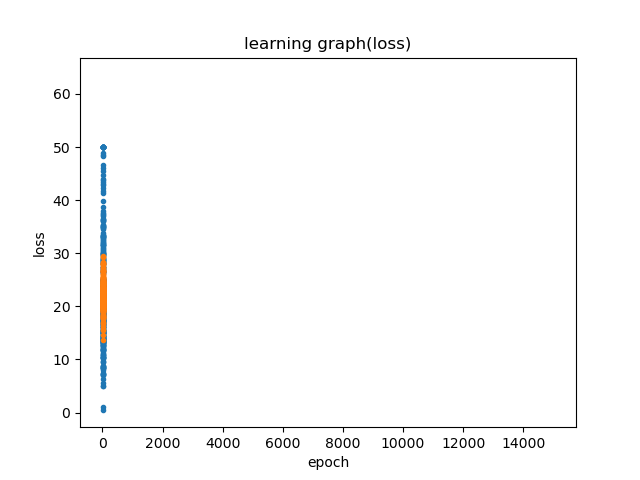
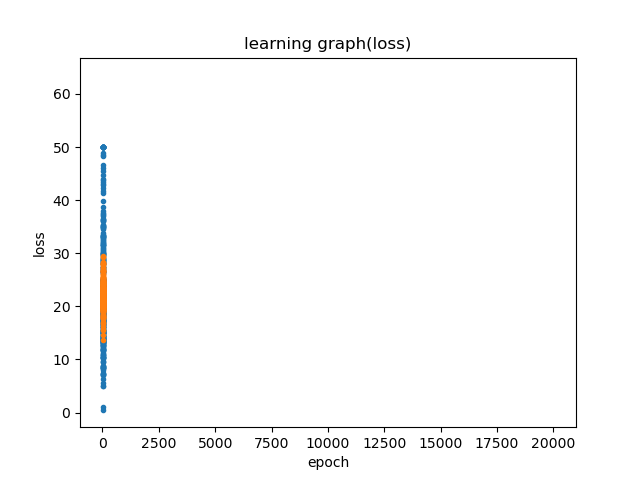
sth wrong with code

Changed region(s): [[0.4062, 0.9062, 0.9062, 0.9375], [0.3125, 0.9062, 0.375, 0.9375], [0.2188, 0.9062, 0.2812, 0.9375]]

diff --git a/WithoutTorch2.py b/WithoutTorch2.py
@@ -1,59 +1,62 @@
 import numpy as np
 import matplotlib.pyplot as plt
+from mpl_toolkits.mplot3d import Axes3D
 
 print("Step2: Development Multi Linear Regression Algorithm")
 
 # input_array will be 2-d array, target_array will be 1-d array(2입력1출력 다중선형회귀)
-#paramaters = weight, bias will be matrix, vector
+#paramaters = weight, bias will be matrix
 #input_array1=RM, input_array2=CRIM , target_array=MEDV, predict_array=예측한 출력값
 
 def linear_regression_2D(input_array, target_array, epoch):
     #intialize weight & bias
-    weight_bias = np.array([[1],[1],[1]]) #앞 2개=weight
+    weight, bias = np.ones(shape=(2,1)), np.ones(shape=(506,1))
     loss = 0 #initialize loss =0
     lr = 1e-3
-    print(f"initial : weight_bias, loss: {weight_bias}, {loss}")
+    #print(f"initial : weight, bias, loss: {weight}, {bias}, {loss}")
 
     for i in range(0, epoch):
-        predict_array = predict(input_array, weight_bias)
+        predict_array = predict(input_array, weight, bias)
         #print(predict_array)
         diff_array = predict_array - target_array
         #print(diff_array)
-        gradient_weight = np.sum(2*input_array*diff_array) / len(diff_array) 
+        gradient_weight1 = np.sum(2*input_array[:,0]*diff_array) / len(diff_array) 
+        gradient_weight2 = np.sum(2*input_array[:,1]*diff_array) / len(diff_array)
         #print(gradient_weight)
         gradient_bias = np.sum(2*diff_array) / len(diff_array)
         #print(gradient_bias)
-        weight_bias -= (lr * gradient_weight)
-        weight_bias -= (lr * gradient_bias)
+        weight[0,:] -= (lr * gradient_weight1)
+        weight[1,:] -= (lr * gradient_weight2)
+        bias -= (lr * gradient_bias)
         loss = lossfunction(diff_array)
-        history=np.zeros((0,2))
         #accuracy(R^2 결정계수)
         target_mean=target_array.mean()
         acc=1-((target_array-predict_array)**2).sum()/((target_array-target_mean)**2).sum()
-         #??gradient 초기화시키고 다시 위로 올라가서 시작 #0으로 만들어주고 반복하게끔
-        print(f"final : weight, bias, loss: {weight:.4f}, {bias:.4f}, {loss:.4f}")
-        print(f"acc : {acc:.4f}")
+        #??gradient 초기화시키고 다시 위로 올라가서 시작 #0으로 만들어주고 반복하게끔
+        print(bias[0][0])
+        print(weight[1][0])
+        print(f"final : weight1, weight2, bias, loss: {weight[0][0]:.4f}, {weight[1][0]:.4f}, {bias[0][0]:.4f}, {loss:.4f}")
+        #print(f"acc : {acc:.4f}")
         return weight, bias, loss
     
 def get_data(): 
     number_of_rooms_list, price_list, crime_rate_list = [], [], []
     with open("BostonData1.txt", "r") as f: #read text file as 'read mode'
-            for lines in f: 
-                a = lines[0:5]
-                b = lines[5:10]
-                RM = number_of_rooms_list.append(float(a.replace(" ", ""))) #부동소수점 자료형
-                MEDV = price_list.append(float(b.replace(" ", ""))) #still 'list'
+                for lines in f: 
+                    a = lines[0:5]
+                    b = lines[5:10]
+                    number_of_rooms_list.append(float(a.replace(" ", ""))) #부동소수점 자료형
+                    price_list.append(float(b.replace(" ", ""))) #still 'list'
     with open("BostonData2.txt", "r") as f:
-            for lines in f:
-                c = lines[3:10]
-                CRIM = crime_rate_list.append(float(c))
-    input_array = np.c_[np.array(RM), np.array(CRIM)] #change to array, 열 추가
-    target_array = np.array(MEDV)
-    return input_array, target_array
-    
+                for lines in f:
+                    c = lines[3:10]
+                    crime_rate_list.append(float(c))
+    input_array = np.c_[np.array(number_of_rooms_list), np.array(crime_rate_list)] #change to array, 열 추가
+    target_array = np.array(price_list)
+    return(input_array, target_array)
 
-def predict(input_array, weight_bias):
-    predict_array = weight_bias@(input_array)
+def predict(input_array, weight, bias):
+    predict_array = (input_array)@weight+bias
     return predict_array
 
 
@@ -65,19 +68,33 @@ def lossfunction(diff_array):
 #__name__ : interpreter 글로벌 변수 
 if __name__ == "__main__": #인터프리터에서 직접 실행했을 경우에만 if문을 실행해라(import 말고)
     RM_CRIM, prices = get_data()
-    epoch = 15000
-    #print(RM_CRIM)
+    epoch = 20000
+    print("*"*70)
+    print(RM_CRIM.shape)
+    print("*"*70)
     #print(prices)
+    #print("*"*70)
     weight, bias, loss = linear_regression_2D(RM_CRIM, prices, epoch)
     #draw result graph
-    plt.plot(RM_CRIM, prices, ".", label="target")
-    plt.plot(RM_CRIM, predict(RM_CRIM, weight, bias), ".", label="predict")
-    plt.savefig("result.png")
+    plt.subplot(2, 1, 1)
+    plt.plot(RM_CRIM[:,0], prices, ".", label="target")
+    plt.plot(RM_CRIM[:,0], predict(RM_CRIM, weight, bias), ".", label="predict")
+    plt.legend()
+    plt.title("x: Room, y: Price")
     
-#loss graph
-plt.plot(history[:,0], history[:,1],'b')
-plt.xlabel('epoch')
-plt.ylabel('loss')
-plt.title('learning graph(loss)')
-plt.savefig("loss graph.png")
+    plt.subplot(2, 1, 2)
+    plt.plot(RM_CRIM[:,1], prices, ".", label="target")
+    plt.plot(RM_CRIM[:,1], predict(RM_CRIM, weight, bias), ".", label="predict")
+    plt.legend()
+    plt.title("x: Criminal, y: Price")
+
+    plt.tight_layout()
+    plt.savefig("result1.png")
+    
+    #loss graph
+    #plt.plot(history[:,0], history[:,1],'b')
+    #plt.xlabel('epoch')
+    #plt.ylabel('loss')
+    #plt.title('learning graph(loss)')
+    #plt.savefig("loss graph.png")
 

diff --git a/README.md b/README.md
@@ -1,2 +1,5 @@
 # DeepLearning
 Develop DeepLearning Algorithm without Framework
+
+how to record all history?
+how to set weight and bias in multilinear? weight은 2차원이고, bias는 1차원?
